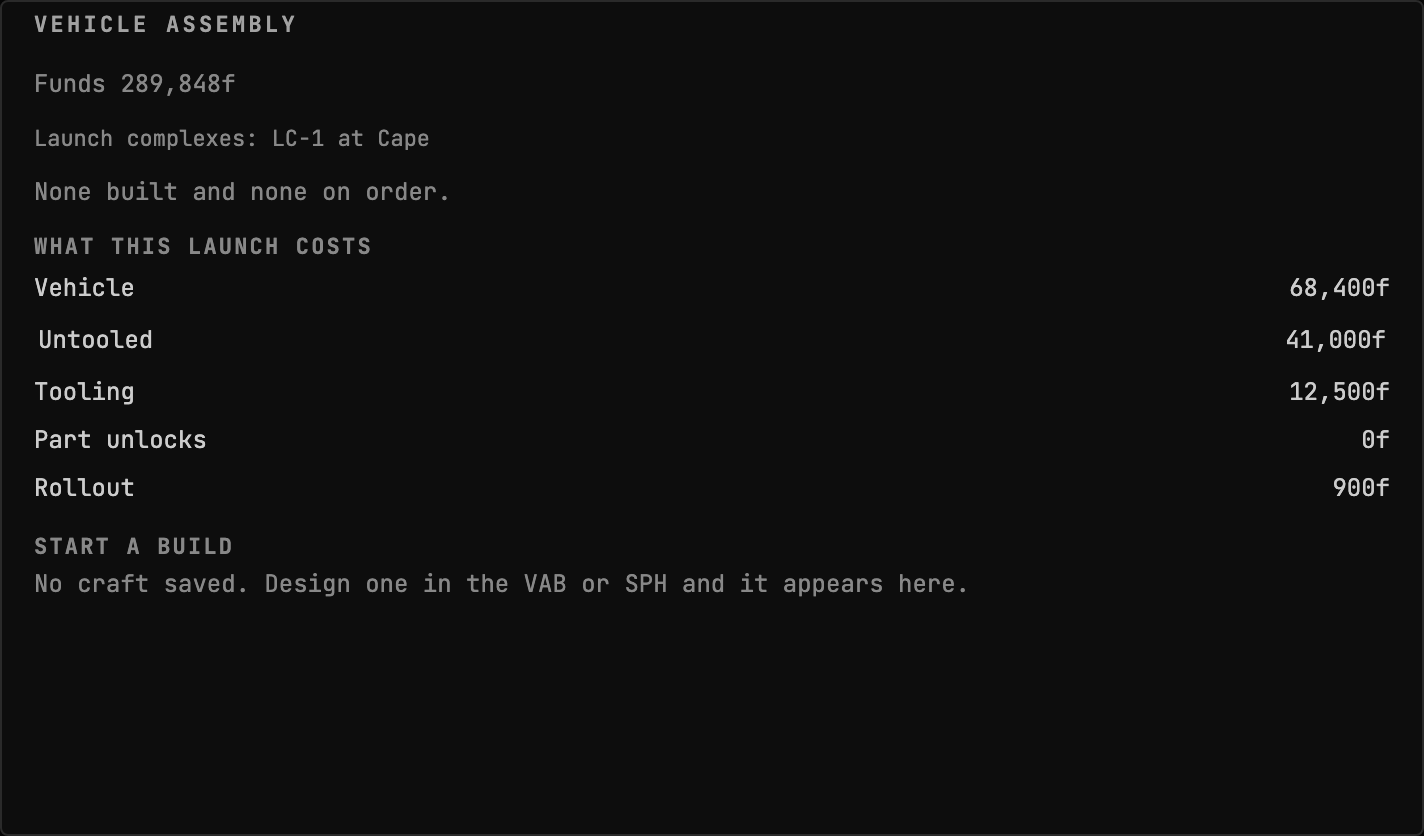
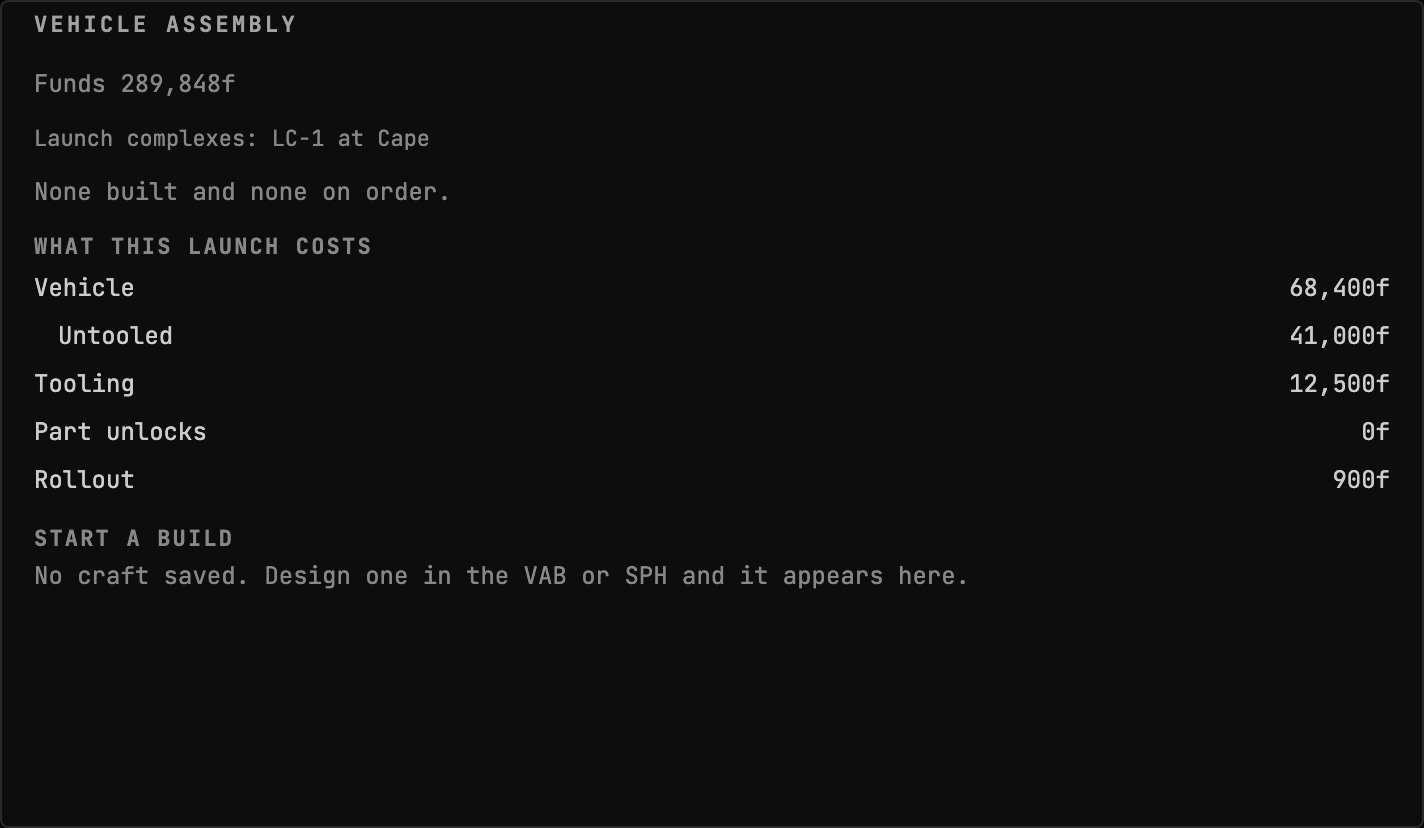
feat(ui-kit): give the kit a subordinate row, and stop blaming the wrong pixels
An "of which" line under a total, a child under a tree node, a sub-total under
its group: one relationship with three names, and every caller was about to
invent its own inset for it. `Row nested` draws it once. Left only, because the
right side of an indent communicates nothing, whereas ui-kit's `Box` pads both.

The measurement that motivated it did not hold up, and the doc comment now says
so rather than quietly keeping the claim. Vehicle Assembly's untooled label was
two pixels short at the widget's minimum size and the right-hand pad was blamed.
Stepping the inset says otherwise: 12px left the label 10px short, 8px left it 6
short, 4px left it 2 short, and the both-sides wrapper at the same nominal inset
also left it 2 short. Identical. With no inset at all the label fits exactly.

So the row has no spare width at that size and any indent costs it, which makes
this a property of an eight-character name plus a funds value against the
widget's minimum, not of which sides get padded. Left-only is still correct on
its own merits; it simply did not buy the pixels it was predicted to.

The inset is therefore sized for the design system rather than for the narrowest
caller: a legible indent where rows are actually read beats a smaller one chosen
to lose by less somewhere it was always going to lose. Both build-cost scenes
keep excluding `min`, and their `_meta` now carries the measured reason and notes
[…]

diff --git a/packages/ui-kit/src/Row.tsx b/packages/ui-kit/src/Row.tsx
@@ -42,6 +42,33 @@ export interface RowProps extends HTMLAttributes<HTMLElement> {
    * tidy list becomes a ragged block at a narrow width without anyone noticing.
    */
   wrap?: boolean;
+  /**
+   * Marks the row SUBORDINATE to the one above it, and insets it to say so.
+   *
+   * <para>One relationship, three names: an "of which" line under a total, a
+   * child under a tree node, a sub-total under its group. All of them are "this
+   * row belongs to the one above", and the kit should draw that once rather than
+   * have each caller invent an inset.</para>
+   *
+   * <para><b>Left only</b>, because the right side of an indent communicates
+   * nothing. The obvious alternative is a padded wrapper and ui-kit's `Box` pads
+   * both sides, which spends width on a margin no reader can interpret.</para>
+   *
+   * <para><b>What that is NOT worth, measured, because the first version of this
+   * comment claimed otherwise.</b> On Vehicle Assembly's cost breakdown the
+   * subordinate label was two pixels short at the widget's minimum size, and the
+   * right-hand pad was blamed. It was not the cause: at equal inset the two
+   * approaches leave identical room, and with NO inset the label fits exactly. The
+   * row simply has no spare width there, so any indent at all costs it. Left-only
+   * is still right, and it did not buy the pixels it was predicted to.</para>
+   *
+   * <para>The inset is a token rather than a depth multiplier, and it is sized for
+   * the design system rather than for the narrowest caller: a legible indent at the
+   * sizes a row is read at beats a smaller one chosen to lose by less where it was
+   * always going to lose. Nothing nests twice yet, and a `depth` prop with no
+   * second level to justify it is API invented ahead of a use.</para>
+   */
+  nested?: boolean;
   children?: ReactNode;
 }
 
@@ -58,6 +85,7 @@ function RowBase({
   interactive = false,
   selected = false,
   wrap = false,
+  nested = false,
   children,
   ...rest
 }: RowProps) {
@@ -67,6 +95,7 @@ function RowBase({
       $interactive={interactive}
       $selected={selected}
       $wrap={wrap}
+      $nested={nested}
       {...rest}
     >
       {children}
@@ -95,6 +124,7 @@ const Row__Root = styled.li<{
   $interactive: boolean;
   $selected: boolean;
   $wrap: boolean;
+  $nested: boolean;
 }>`
   display: flex;
   justify-content: space-between;
@@ -102,6 +132,7 @@ const Row__Root = styled.li<{
   gap: var(--space-8, 8px);
   font-size: var(--font-size-sm);
   padding: var(--space-2, 2px) 0;
+  ${({ $nested }) => ($nested ? `padding-left: var(--space-12, 12px);` : "")}
   ${({ $wrap }) =>
     $wrap
       ? `

diff --git a/packages/ui-kit/src/Row.test.tsx b/packages/ui-kit/src/Row.test.tsx
@@ -23,6 +23,39 @@ describe("Row", () => {
     expect(screen.getByTestId("row").tagName).toBe("DIV");
   });
 
+  /**
+   * The subordinate row, asserted as an ASYMMETRY against an ordinary one.
+   *
+   * <para>Left-only is the whole reason the prop exists: the obvious indent is a
+   * padded wrapper, ui-kit's `Box` pads both sides, and the waste on the right
+   * costs the name exactly the width it needs. A row indented on both sides is a
+   * squeeze wearing an indent's clothes.</para>
+   *
+   * <para>Compared against a plain row rather than against a literal, because
+   * jsdom does not resolve custom properties and an assertion on the token's
+   * VALUE would be testing how the test environment renders `var()` rather than
+   * what the prop does. The relationship is the claim: left differs, right does
+   * not.</para>
+   */
+  it("insets a nested row on the left and nowhere else", () => {
+    render(
+      <div>
+        <Row as="div" data-testid="plain">
+          <RowName>Vehicle</RowName>
+        </Row>
+        <Row as="div" nested data-testid="nested">
+          <RowName>Untooled</RowName>
+        </Row>
+      </div>,
+    );
+
+    const plain = getComputedStyle(screen.getByTestId("plain"));
+    const nested = getComputedStyle(screen.getByTestId("nested"));
+
+    expect(nested.paddingLeft).not.toBe(plain.paddingLeft);
+    expect(nested.paddingRight).toBe(plain.paddingRight);
+  });
+
   it("exposes RowName as Row.Name", () => {
     expect(Row.Name).toBe(RowName);
   });

diff --git a/mod/GonogoRp1Uplink/client/src/VehicleAssembly/BuildCost.tsx b/mod/GonogoRp1Uplink/client/src/VehicleAssembly/BuildCost.tsx
@@ -2,7 +2,6 @@ import type { Value } from "@ksp-gonogo/sitrep-sdk";
 import { registerAugment, useTelemetry } from "@ksp-gonogo/sitrep-sdk";
 import {
   Badge,
-  Box,
   Cluster,
   NULL_DISPLAY,
   Row,
@@ -102,6 +101,11 @@ function CostRow({ name, value }: { name: string; value?: Value<"funds"> }) {
  * without a word, and it cannot be clipped away the way a label was. A sentence was
  * the wrong instrument for a structural fact.</para>
  *
+ * <para>The inset is ui-kit's own <c>Row nested</c> rather than a padded wrapper,
+ * and the difference is measurable rather than tidiness: a wrapper pads BOTH sides,
+ * only the left communicates anything, and at this widget's minimum size the waste
+ * on the right left the label two pixels short of its own name.</para>
+ *
  * <para><b>"Untooled" is RP-1's own word, not ours.</b> Its code carries
  * `ProcessUntooledParts`, `GetUntooledPartsAndCost`, `UntooledMultiplier` and a
  * `_untooledTypesScroll` region in its own tooling window, so an operator meets the
@@ -113,12 +117,10 @@ function SurchargeRow({ cost }: { cost: Rp1BuildCost }) {
     return null;
   }
   return (
-    <Box pad={["xs", "xs"]} data-of-which="">
-      <Row as="div">
-        <RowName>Untooled</RowName>
-        <Unit value={cost.untooledSurcharge} decimals={0} />
-      </Row>
-    </Box>
+    <Row as="div" nested data-of-which="">
+      <RowName>Untooled</RowName>
+      <Unit value={cost.untooledSurcharge} decimals={0} />
+    </Row>
   );
 }
 
